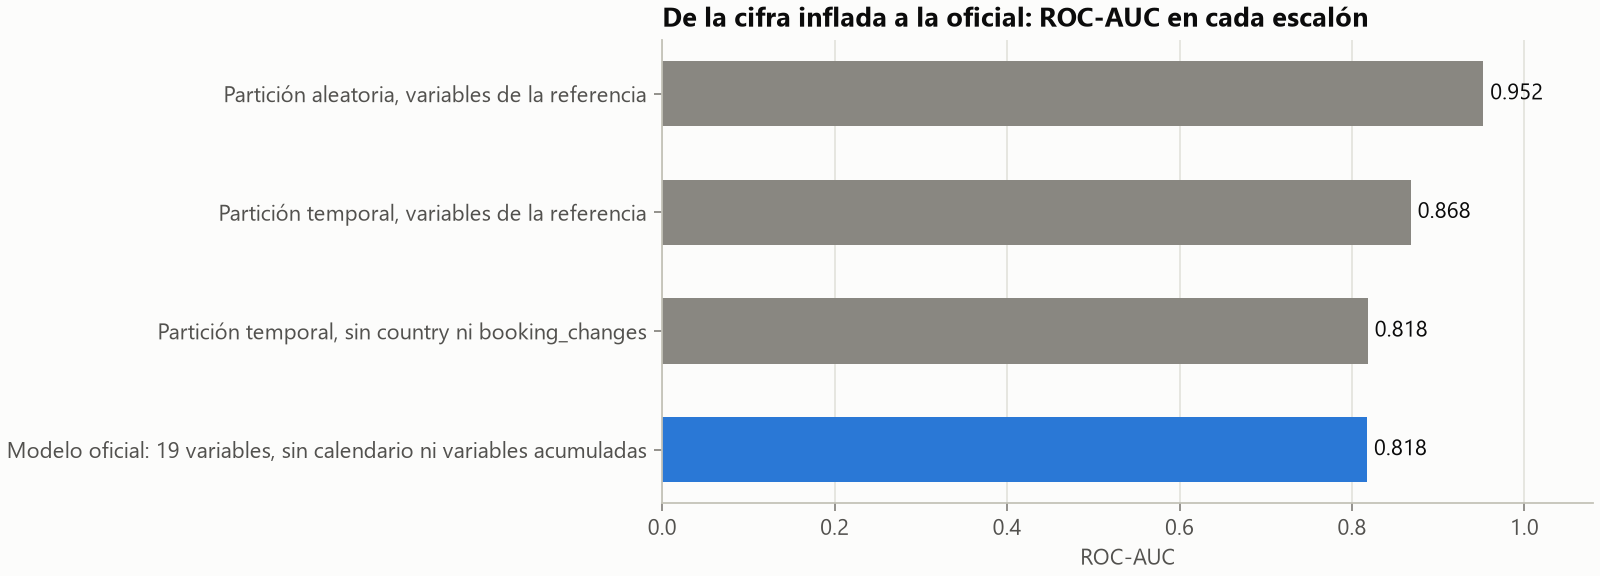
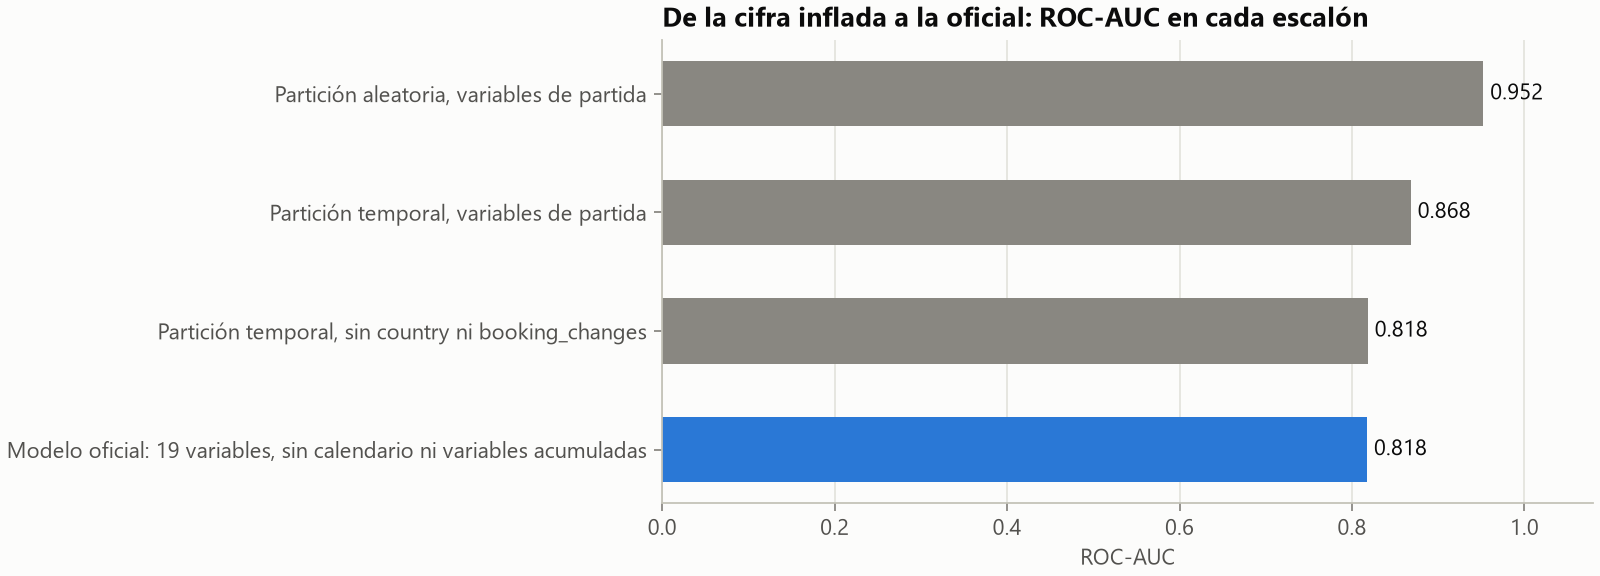
fix: llama variables de partida a las de la auditoría y regenera su figura

Changed region(s): [[0.125, 0.3438, 0.4062, 0.4062], [0.125, 0.1562, 0.4062, 0.1875]]

diff --git a/src/hotel_cancellation/audit.py b/src/hotel_cancellation/audit.py
@@ -15,8 +15,8 @@ from xgboost import XGBClassifier
 
 from hotel_cancellation import champion, config, schema
 
-# Hyperparameters of the reference: very deep trees, without much regularization.
-REFERENCE_XGBOOST: Mapping[str, Any] = {
+# Hyperparameters of the starting point: very deep trees, without much regularization.
+STARTING_XGBOOST: Mapping[str, Any] = {
     "n_estimators": 600,
     "max_depth": 16,
     "learning_rate": 0.03,
@@ -28,8 +28,8 @@ _SEED = 42
 _MAX_CATEGORIES_TO_ONE_HOT = 8
 _MISSING_CATEGORY = "none"
 
-# The reference already left out these columns, which restate the outcome or come from the check-in.
-_REFERENCE_DROPS = (
+# The start already left out these columns, which restate the outcome or come from the check-in.
+_STARTING_DROPS = (
     "reservation_status",
     "reservation_status_date",
     "arrival_date_year",
@@ -40,10 +40,10 @@ _DOCUMENTED_LEAKS = ("country", "booking_changes")
 _NOT_INPUTS = (schema.TARGET, schema.ARRIVAL_DATE)
 
 
-def _reference_frames(
+def _starting_frames(
     train: pd.DataFrame, test: pd.DataFrame, drops: Sequence[str]
 ) -> tuple[pd.DataFrame, pd.DataFrame]:
-    """Prepare the variables as the reference did: native categories, with `none` for missing."""
+    """Prepare the variables as at the start: native categories, with `none` for missing."""
     removed = {*drops, *_NOT_INPUTS}
     columns = [column for column in schema.RAW_COLUMNS if column not in removed]
     x_train, x_test = train[columns].copy(), test[columns].copy()
@@ -72,7 +72,7 @@ def _measure_step(
     drops: Sequence[str],
     params: Mapping[str, Any],
 ) -> dict[str, Any]:
-    x_train, x_test = _reference_frames(train, test, drops)
+    x_train, x_test = _starting_frames(train, test, drops)
     model = XGBClassifier(
         **params,
         enable_categorical=True,
@@ -86,7 +86,7 @@ def _measure_step(
     return {
         "step": step,
         "label": label,
-        "model": "xgboost_reference",
+        "model": "xgboost_starting",
         "train_rows": len(train),
         "test_rows": len(test),
         "test_rows_already_in_train": _share_already_in_train(train, test),
@@ -123,7 +123,7 @@ def audit_inflation(
     cleaned: pd.DataFrame,
     *,
     settings: config.Settings,
-    params: Mapping[str, Any] = REFERENCE_XGBOOST,
+    params: Mapping[str, Any] = STARTING_XGBOOST,
 ) -> pd.DataFrame:
     """Measure the four steps from the inflated figure to the official one.
 
@@ -150,19 +150,19 @@ def audit_inflation(
     table = pd.DataFrame(
         [
             _measure_step(
-                "random_split_reference_variables",
-                "Partición aleatoria, variables de la referencia",
+                "random_split_starting_variables",
+                "Partición aleatoria, variables de partida",
                 random_train,
                 random_test,
-                _REFERENCE_DROPS,
+                _STARTING_DROPS,
                 params,
             ),
             _measure_step(
-                "temporal_split_reference_variables",
-                "Partición temporal, variables de la referencia",
+                "temporal_split_starting_variables",
+                "Partición temporal, variables de partida",
                 temporal_train,
                 temporal_test,
-                _REFERENCE_DROPS,
+                _STARTING_DROPS,
                 params,
             ),
             _measure_step(
@@ -170,7 +170,7 @@ def audit_inflation(
                 "Partición temporal, sin country ni booking_changes",
                 temporal_train,
                 temporal_test,
-                (*_REFERENCE_DROPS, *_DOCUMENTED_LEAKS),
+                (*_STARTING_DROPS, *_DOCUMENTED_LEAKS),
                 params,
             ),
             _official_step(settings),

diff --git a/tests/test_interpretation.py b/tests/test_interpretation.py
@@ -135,8 +135,8 @@ class TestAudit:
 
     def test_it_has_the_four_steps_in_order(self, table: pd.DataFrame) -> None:
         assert list(table["step"]) == [
-            "random_split_reference_variables",
-            "temporal_split_reference_variables",
+            "random_split_starting_variables",
+            "temporal_split_starting_variables",
             "temporal_split_without_documented_leaks",
             "official_model",
         ]
@@ -145,8 +145,8 @@ class TestAudit:
     def test_leaking_variables_inflate_the_first_steps(self, table: pd.DataFrame) -> None:
         # On synthetic rows, the accumulating variables copy the outcome.
         aucs = table.set_index("step")["roc_auc"]
-        assert aucs["random_split_reference_variables"] > 0.99
-        assert aucs["temporal_split_reference_variables"] > 0.99
+        assert aucs["random_split_starting_variables"] > 0.99
+        assert aucs["temporal_split_starting_variables"] > 0.99
         assert aucs["temporal_split_without_documented_leaks"] > 0.99
         assert aucs["official_model"] < 0.95
 
@@ -168,8 +168,8 @@ class TestAudit:
         self, table: pd.DataFrame
     ) -> None:
         shares = table.set_index("step")["test_rows_already_in_train"]
-        assert 0 <= shares["random_split_reference_variables"] <= 1
-        assert shares["temporal_split_reference_variables"] <= 1
+        assert 0 <= shares["random_split_starting_variables"] <= 1
+        assert shares["temporal_split_starting_variables"] <= 1
 
     def test_it_writes_its_table(self, evaluated: config.Settings, table: pd.DataFrame) -> None:
         saved = pd.read_csv(evaluated.audit_dir / "inflation.csv")

diff --git a/experiments/common.py b/experiments/common.py
@@ -20,7 +20,7 @@ from hotel_cancellation import champion, config, data_loader, evaluator, feature
 
 SEED = 42
 
-# Starting point of the plan, shared by every experiment so that their figures are comparable.
+# Shared by every experiment so that their figures are comparable.
 REFERENCE_XGBOOST: dict[str, Any] = {
     "n_estimators": 400,
     "max_depth": 6,

diff --git a/experiments/decisions.py b/experiments/decisions.py
@@ -1,4 +1,4 @@
-"""Experiments behind the variable and model decisions of the plan.
+"""Experiments behind the variable and model decisions.
 
 Run them with `uv run python -m experiments.run_all`, which only reads arrivals before 2017.
 """

diff --git a/docs/informe_final.md b/docs/informe_final.md
@@ -173,9 +173,9 @@ Se reproduce con `hotel-ml audit`, y los tres primeros escalones se entrenan de 
 
 | Escalón | Modelo | Filas de train | Filas de test | Test ya en train | ROC-AUC | PR-AUC | Brier |
 |---|---|---|---|---|---|---|---|
-| Partición aleatoria, variables de la referencia | XGBoost de la referencia | 94 850 | 23 713 | 32.0 % | 0.9524 | 0.9339 | 0.0838 |
-| Partición temporal, variables de la referencia | XGBoost de la referencia | 78 054 | 40 509 | 0.0 % | 0.8683 | 0.8270 | 0.1630 |
-| Partición temporal, sin country ni booking_changes | XGBoost de la referencia | 78 054 | 40 509 | 0.0 % | 0.8184 | 0.7802 | 0.1775 |
+| Partición aleatoria, variables de partida | XGBoost de partida | 94 850 | 23 713 | 32.0 % | 0.9524 | 0.9339 | 0.0838 |
+| Partición temporal, variables de partida | XGBoost de partida | 78 054 | 40 509 | 0.0 % | 0.8683 | 0.8270 | 0.1630 |
+| Partición temporal, sin country ni booking_changes | XGBoost de partida | 78 054 | 40 509 | 0.0 % | 0.8184 | 0.7802 | 0.1775 |
 | Modelo oficial: 19 variables, sin calendario ni variables acumuladas | Random Forest | 78 054 | 40 509 | n/d | 0.8175 | 0.7608 | 0.1627 |
 
 ![De la cifra inflada a la oficial](../outputs/figures/inflacion.png)
